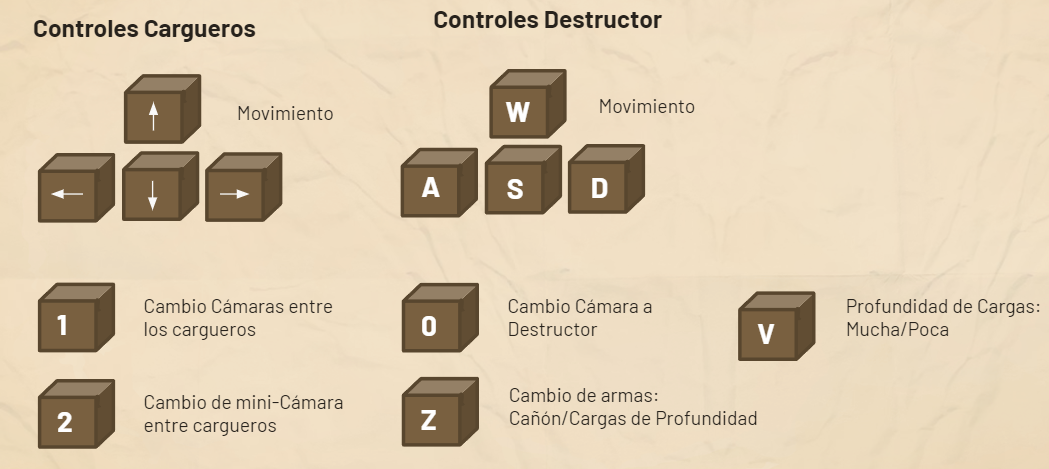
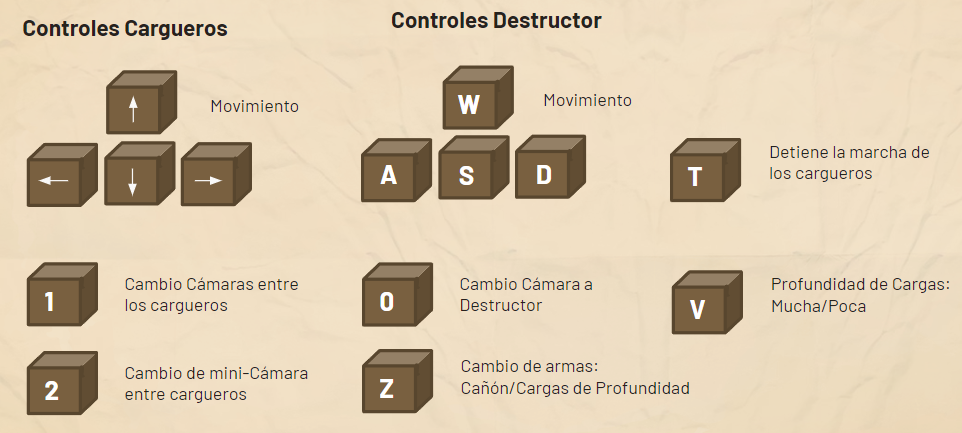
Se actualiza escena controles

diff --git a/src/escenas/controles.js b/src/escenas/controles.js
@@ -8,10 +8,10 @@ export class controles extends Phaser.Scene{
   create(){
     const self = this;
     self.add.image(0, 0, DEF.IMAGENES.FONDO).setOrigin(0).setScrollFactor(1);
-    self.imagenControles = self.physics.add.image(60, 350, DEF.IMAGENES.CONTROLES1).setOrigin(0).setScrollFactor(0).setDepth(10)
-    self.imagenControles.setDisplaySize(900, 560);
-    self.imagenControles2 = self.physics.add.image(960, 350, DEF.IMAGENES.CONTROLES2).setOrigin(0).setScrollFactor(0).setDepth(10)
-    self.imagenControles2.setDisplaySize(900, 560);
+    self.imagenControles = self.physics.add.image(20, 370, DEF.IMAGENES.CONTROLES1).setOrigin(0).setScrollFactor(0).setDepth(10)
+    self.imagenControles.setDisplaySize(940, 460);
+    self.imagenControles2 = self.physics.add.image(960, 370, DEF.IMAGENES.CONTROLES2).setOrigin(0).setScrollFactor(0).setDepth(10)
+    self.imagenControles2.setDisplaySize(940, 460);
 
     self.sonidoControles = self.sound.add(DEF.AUDIO.ENDGAME,{volume: 0.4, loop: true});
     self.sonidoControles.play();
